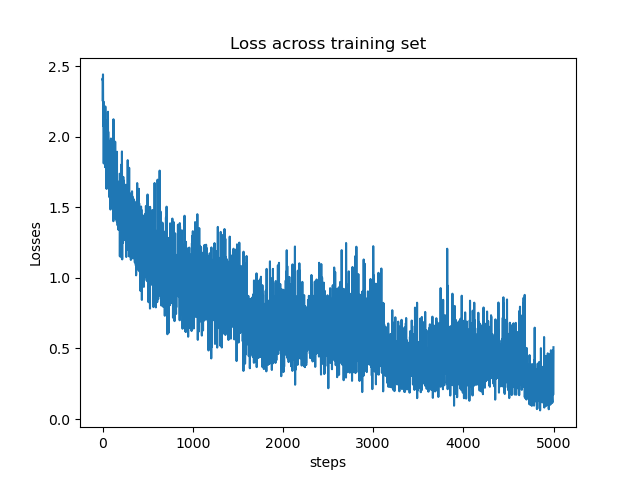
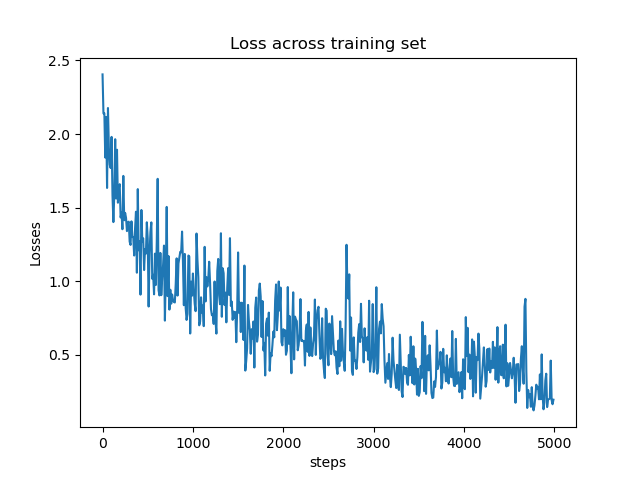
Better plots

diff --git a/assignment_1/1_mlp_cnn/code/train_convnet_pytorch.py b/assignment_1/1_mlp_cnn/code/train_convnet_pytorch.py
@@ -118,6 +118,7 @@ def train():
     train_dataset: DataSet = data_sets['train']
 
     for iteration in range(nr_iterations):
+        net.train()
         optimizer.zero_grad()
         X, y = train_dataset.next_batch(batch_size)
         X: torch.Tensor = torch.from_numpy(X).to(device)
@@ -125,10 +126,11 @@ def train():
         preds = net(X).to(device)
         loss = loss_fn(preds, y.argmax(1))
 
-        train_losses.append({
-            'iteration': iteration,
-            'loss': loss.item()
-        })
+        if iteration % 10 == 0:
+            train_losses.append({
+                'iteration': iteration,
+                'loss': loss.item()
+            })
 
         loss.backward()
         optimizer.step()
@@ -144,6 +146,7 @@ def train():
             acc = 0
             
             with torch.no_grad():
+                net.eval()
                 while test_dataset.epochs_completed < target_epochs_completed:
                     X_test, y_test = test_dataset.next_batch(batch_size)
                     X_test = torch.from_numpy(X_test).to(device)
